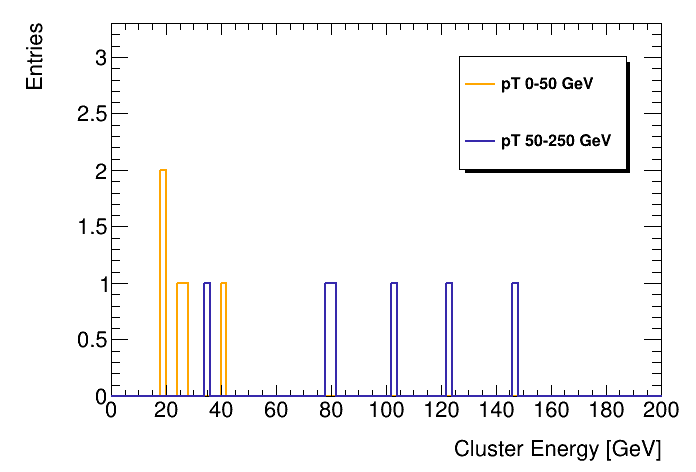
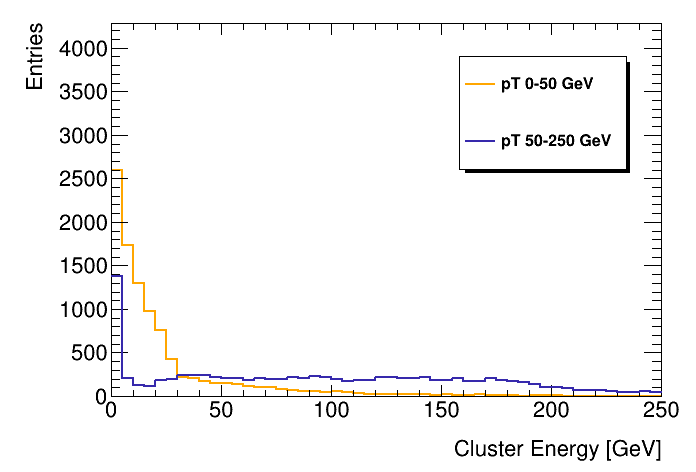
working on EM shower analysis

diff --git a/electronShowerStudies.py b/electronShowerStudies.py
@@ -6,6 +6,7 @@ import pyLCIO
 # Load plotHelper the same way as your working script
 exec(open("./plotHelper.py").read())
 ROOT.gROOT.SetBatch()
+ROOT.gROOT.Reset()
 
 # Set up some options
 max_events = 10
@@ -29,17 +30,29 @@ hists = {}
 for s in files:
     hists[s] = {}
     # Basic cluster properties
-    hists[s]["cluster_energy"] = ROOT.TH1F(s+"_cluster_energy", s, 100, 0, 200)
+    hists[s]["cluster_energy"] = ROOT.TH1F(s+"_cluster_energy", s, 50, 0, 250)
     hists[s]["cluster_nhits"] = ROOT.TH1F(s+"_cluster_nhits", s, 50, 0, 100)
     hists[s]["cluster_r"] = ROOT.TH1F(s+"_cluster_r", s, 50, 0, 3000)
     
     # Spatial matching shower analysis (region-independent)
-    hists[s]["shower_start_depth"] = ROOT.TH1F(s+"_shower_start_depth", s, 50, 0, 270)  # First hit depth
-    hists[s]["shower_penetration"] = ROOT.TH1F(s+"_shower_penetration", s, 50, 0, 270)  # Last hit depth
-    hists[s]["shower_max_position"] = ROOT.TH1F(s+"_shower_max_position", s, 50, 0, 270)  # Energy-weighted center
-    hists[s]["shower_width"] = ROOT.TH1F(s+"_shower_width", s, 50, 0, 100)  # RMS width in depth
-    hists[s]["matched_hits_count"] = ROOT.TH1F(s+"_matched_hits_count", s, 50, 0, 200)  # Number of matched hits
-    hists[s]["cluster_hit_ratio"] = ROOT.TH1F(s+"_cluster_hit_ratio", s, 50, 0, 2.0)  # Matched hits / cluster energy
+    hists[s]["shower_start_depth"] = ROOT.TH1F(s+"_shower_start_depth", s, 25, 0, 25)  # First hit depth, do 25, 0, 25 if 50,0,50 doesnt work
+    hists[s]["shower_start_depth_barrel"] = ROOT.TH1F(s+"_shower_start_depth_barrel", s, 25, 0, 25)
+    hists[s]["shower_start_depth_endcap"] = ROOT.TH1F(s+"_shower_start_depth_endcap", s, 25, 0, 25)
+    hists[s]["shower_penetration"] = ROOT.TH1F(s+"_shower_penetration", s, 30, 0, 300)  # Last hit depth
+    hists[s]["shower_penetration_barrel"] = ROOT.TH1F(s+"_shower_penetration_barrel", s, 30, 0, 300)
+    hists[s]["shower_penetration_endcap"] = ROOT.TH1F(s+"_shower_penetration_endcap", s, 30, 0 ,300)
+    hists[s]["shower_max_position"] = ROOT.TH1F(s+"_shower_max_position", s, 32, 0, 160)  # Energy-weighted center
+    hists[s]["shower_max_position_barrel"] = ROOT.TH1F(s+"_shower_max_position_barrel", s, 32, 0, 160)
+    hists[s]["shower_max_position_endcap"] = ROOT.TH1F(s+"_shower_max_position_barrel", s, 32, 0, 160)
+    hists[s]["shower_width"] = ROOT.TH1F(s+"_shower_width", s, 50, 0, 50)  # RMS width in depth
+    hists[s]["shower_width_barrel"] = ROOT.TH1F(s+"_shower_width_barrel", s, 50, 0, 50)
+    hists[s]["shower_width_endcap"] = ROOT.TH1F(s+"_shower_width_endcap", s, 50, 0, 50)
+    hists[s]["matched_hits_count"] = ROOT.TH1F(s+"_matched_hits_count", s, 50, 0, 100)  # Number of matched hits
+    hists[s]["matched_hits_count_barrel"] = ROOT.TH1F(s+"_matched_hits_count_barrel", s, 50, 0, 100)
+    hists[s]["matched_hits_count_endcap"] = ROOT.TH1F(s+"_matched_hits_count_endcap", s, 50, 0, 100)
+    hists[s]["cluster_hit_ratio"] = ROOT.TH1F(s+"_cluster_hit_ratio", s, 35, 1.0, 8.0)  # Matched hits / cluster energy
+    hists[s]["cluster_hit_ratio_barrel"] = ROOT.TH1F(s+"_cluster_hit_ratio_barrel", s, 35, 1.0, 8.0)
+    hists[s]["cluster_hit_ratio_endcap"] = ROOT.TH1F(s+"_cluster_hit_ratio_endcap", s, 35, 1.0, 8.0)
 
 def is_barrel_cluster(cluster):
     try:
@@ -59,9 +72,9 @@ def get_available_hits(event, event_num):
     # Try different hit collections
     collections_to_try = [
         ('EcalBarrelCollectionRec', 'barrel_rec'),
-        ('EcalEndcapCollectionRec', 'endcap_rec'), 
-        ('EcalEndcapCollectionDigi', 'endcap_digi'),
-        ('EcalBarrelCollectionDigi', 'barrel_digi')
+        ('EcalEndcapCollectionRec', 'endcap_rec') 
+        #('EcalEndcapCollectionDigi', 'endcap_digi'),
+        #('EcalBarrelCollectionDigi', 'barrel_digi')
     ]
     
     for collection_name, source_name in collections_to_try:
@@ -82,7 +95,6 @@ def get_available_hits(event, event_num):
     return all_hits, hit_sources
 
 def spatial_match_hits(cluster, all_hits, match_radius_mm=80.0, event_num=0):
-    """Find hits within spatial radius of cluster center"""
     try:
         cluster_pos = cluster.getPosition()
         cluster_x, cluster_y, cluster_z = cluster_pos[0], cluster_pos[1], cluster_pos[2]
@@ -183,13 +195,12 @@ def analyze_matched_hits(cluster, matched_hits, event_num):
         # 5. Hit efficiency (matched hits per GeV)
         cluster_energy = cluster.getEnergy()
         hit_ratio = len(matched_hits) / cluster_energy if cluster_energy > 0 else 0
-        
-        if event_num < 3:
-            region = "BARREL" if is_barrel else "ENDCAP"
-            print(f"        {region} shower analysis: {len(matched_hits)} hits, {len(depths)} valid")
-            print(f"          Start: {shower_start:.1f}mm, Max: {shower_penetration:.1f}mm")
-            print(f"          Energy center: {shower_max_depth:.1f}mm, Width: {shower_width:.1f}mm")
-            print(f"          Hit ratio: {hit_ratio:.2f} hits/GeV")
+        #if event_num < 3:
+            #region = "BARREL" if is_barrel else "ENDCAP"
+            #print(f"        {region} shower analysis: {len(matched_hits)} hits, {len(depths)} valid")
+            #print(f"          Start: {shower_start:.1f}mm, Max: {shower_penetration:.1f}mm")
+            #print(f"          Energy center: {shower_max_depth:.1f}mm, Width: {shower_width:.1f}mm")
+            #print(f"          Hit ratio: {hit_ratio:.2f} hits/GeV")
         
         return shower_max_depth, shower_start, shower_penetration, shower_width, len(matched_hits), hit_ratio
         
@@ -245,10 +256,10 @@ for s in files:
                         region = "BARREL" if is_barrel else "ENDCAP"
                         print(f"    Cluster: E={cluster_E:.1f}GeV, R={cluster_r:.1f}mm, Z={abs(cluster_z):.1f}mm -> {region}")
 
-                    if cluster_E < 10:  # Skip low energy clusters
-                        if i < 3:
-                            print(f"      -> SKIPPED (E < 10 GeV)")
-                        continue
+                    #if cluster_E < 10:  # Skip low energy clusters
+                        #if i < 3:
+                            #print(f"      -> SKIPPED (E < 10 GeV)")
+                        #continue
 
                     n_clusters_processed += 1
 
@@ -270,16 +281,41 @@ for s in files:
                         # Fill histograms if analysis succeeded
                         if shower_max is not None:
                             hists[s]["shower_max_position"].Fill(shower_max)
+                            if is_barrel:
+                                hists[s]["shower_max_position_barrel"].Fill(shower_max)
+                            else:
+                                hists[s]["shower_max_position_endcap"].Fill(shower_max)
                         if shower_start is not None:
                             hists[s]["shower_start_depth"].Fill(shower_start)
+                            if is_barrel:
+                                hists[s]["shower_start_depth_barrel"].Fill(shower_start)
+                            else:
+                                hists[s]["shower_start_depth_endcap"].Fill(shower_start)
                         if shower_penetration is not None:
                             hists[s]["shower_penetration"].Fill(shower_penetration)
+                            if is_barrel:
+                                hists[s]["shower_penetration_barrel"].Fill(shower_penetration)
+                            else:
+                                hists[s]["shower_penetration_endcap"].Fill(shower_penetration)
                         if shower_width is not None:
                             hists[s]["shower_width"].Fill(shower_width)
+                            if is_barrel:
+                                hists[s]["shower_width_barrel"].Fill(shower_width)
+                            else:
+                                hists[s]["shower_width_endcap"].Fill(shower_width)
                         if n_matched is not None:
                             hists[s]["matched_hits_count"].Fill(n_matched)
+                            if is_barrel:
+                                hists[s]["matched_hits_count_barrel"].Fill(n_matched)
+                            else:
+                                hists[s]["matched_hits_count_endcap"].Fill(n_matched)
                         if hit_ratio is not None:
                             hists[s]["cluster_hit_ratio"].Fill(hit_ratio)
+                            if is_barrel:
+                                hists[s]["cluster_hit_ratio_barrel"].Fill(hit_ratio)
+                            else:
+                                hists[s]["cluster_hit_ratio_endcap"].Fill(hit_ratio)
+
 
                 # Debug: print counts for first few events
                 if i < 3:
@@ -323,7 +359,9 @@ hist_names_to_plot = [
     "shower_penetration",
     "shower_width",
     "matched_hits_count",
-    "cluster_hit_ratio"
+    "cluster_hit_ratio",
+    "cluster_hit_ratio_barrel",
+    "cluster_hit_ratio_endcap"
 ]
 
 for hist_name in hist_names_to_plot:
